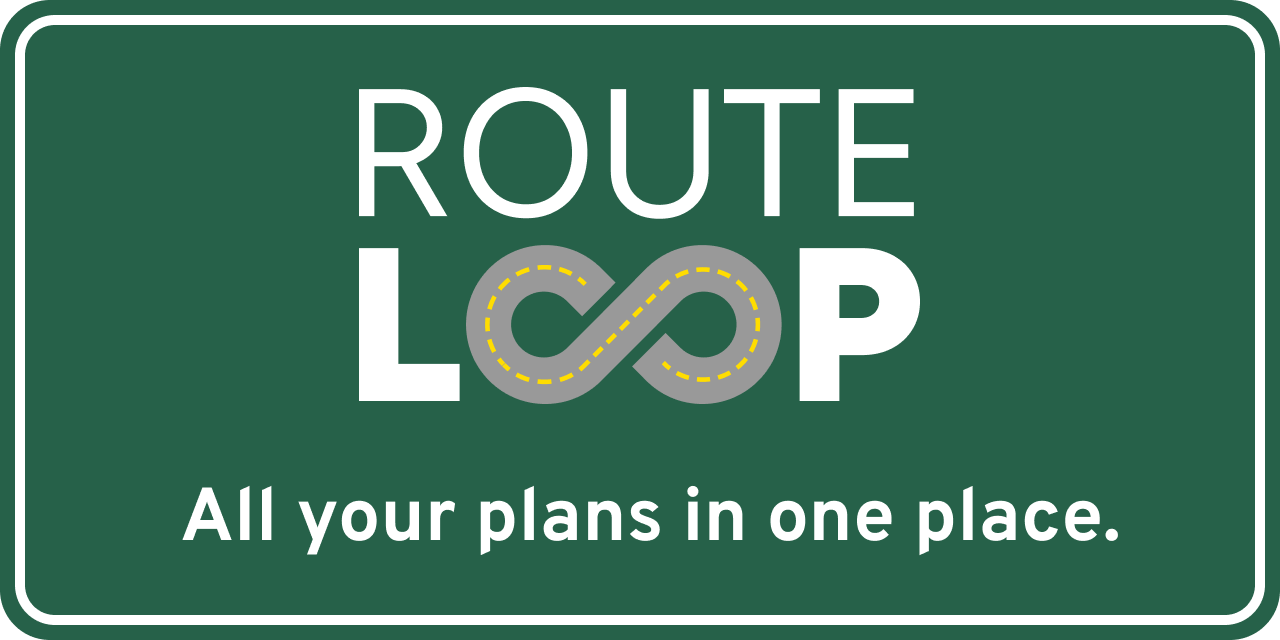
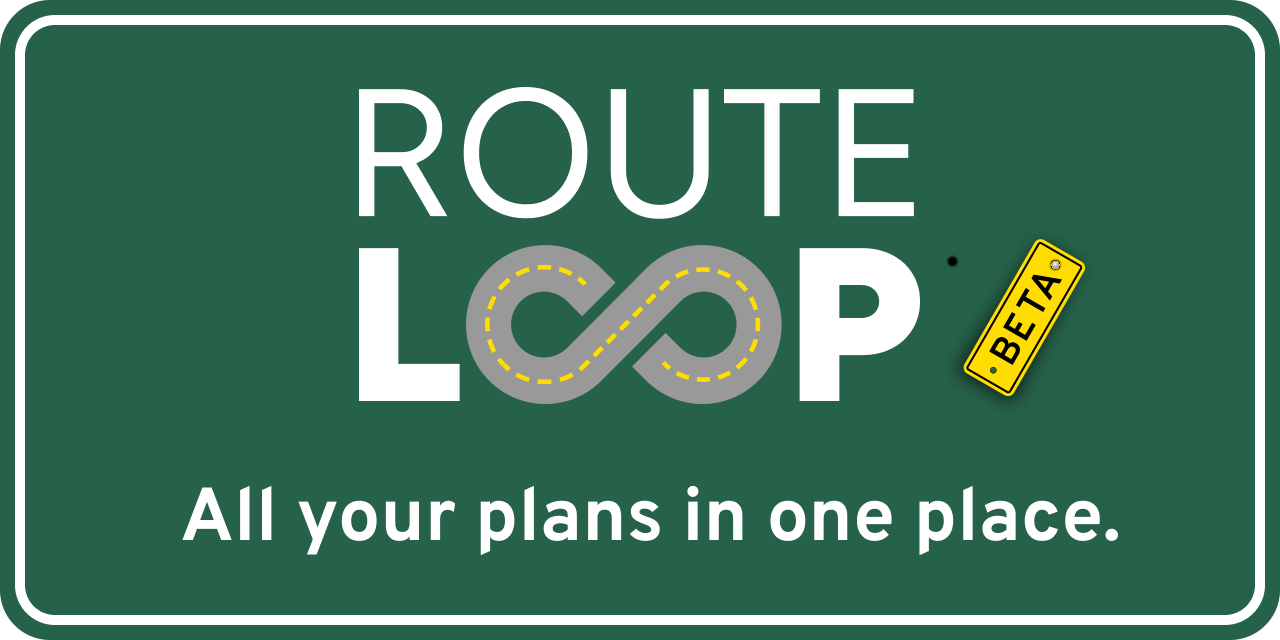
feat(chrome): the beta sign on the email wordmark and the OG card
utils/build-email-logos.mjs rasterizes the email wordmarks from the SVGs, --beta from the composites, and prints the size shell.tsx has to declare; the word stays 400×50 and the sign hangs off it into 425×149. The OG card gets the sign beside the P.

Changed region(s): [[0.75, 0.375, 0.8438, 0.625]]

diff --git a/src/emails/shell.tsx b/src/emails/shell.tsx
@@ -152,8 +152,14 @@ const PREHEADER_PAD = '&zwnj;&nbsp;'.repeat(60)
 // wide where it was 180 — nearly the full 536px the cell has — and 50 tall where
 // it was 52. Anything narrower renders a wordmark too short to read beside 16px
 // body copy.
-const LOGO_W = 400
-const LOGO_H = 50
+//
+// FOR THE BETA THE FILES CARRY THE SIGN, so they are 425×149: the word is
+// still 400×50 and the BETA sign hangs off its right end into the extra.
+// utils/build-email-logos.mjs writes both files from the SVGs and prints
+// these two numbers; run it without --beta when the beta ends, and put 400
+// and 50 back here.
+const LOGO_W = 425
+const LOGO_H = 149
 const LOGO_LIGHT = `${APP_ORIGIN}/img/logo-routeloop-email-hz@2x.png`
 const LOGO_DARK = `${APP_ORIGIN}/img/logo-routeloop-email-hz-dark@2x.png`
 
